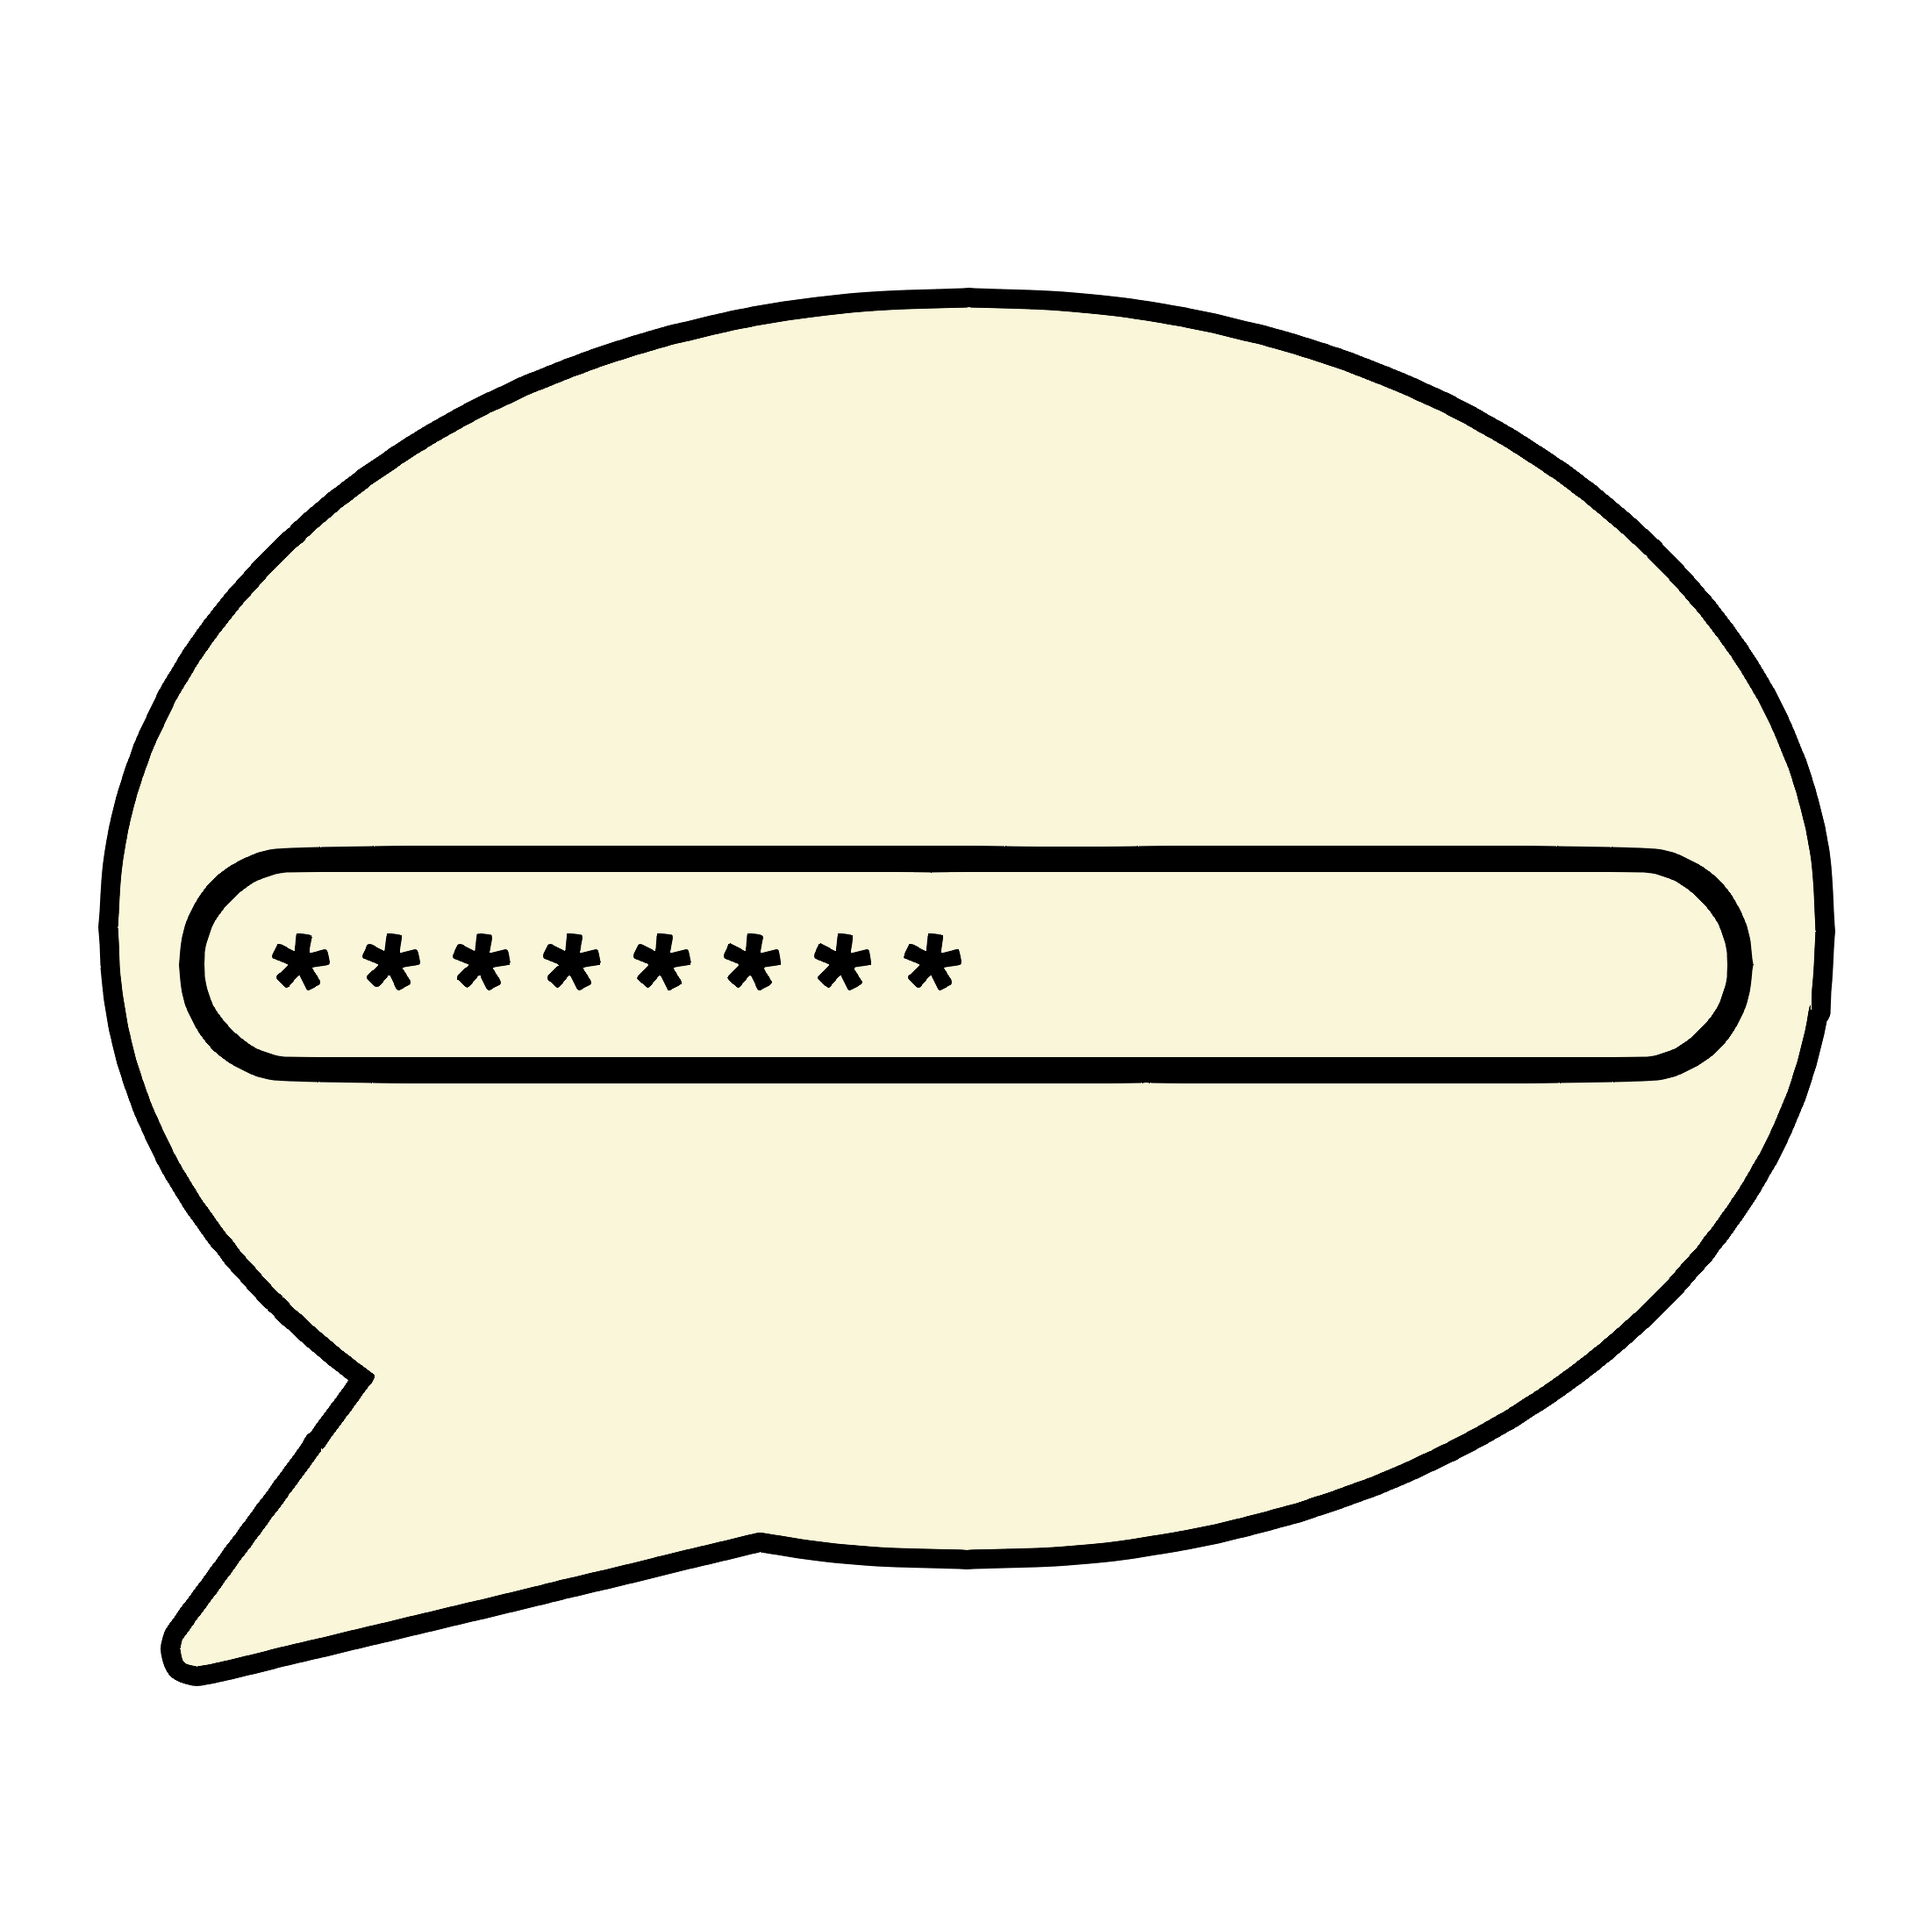
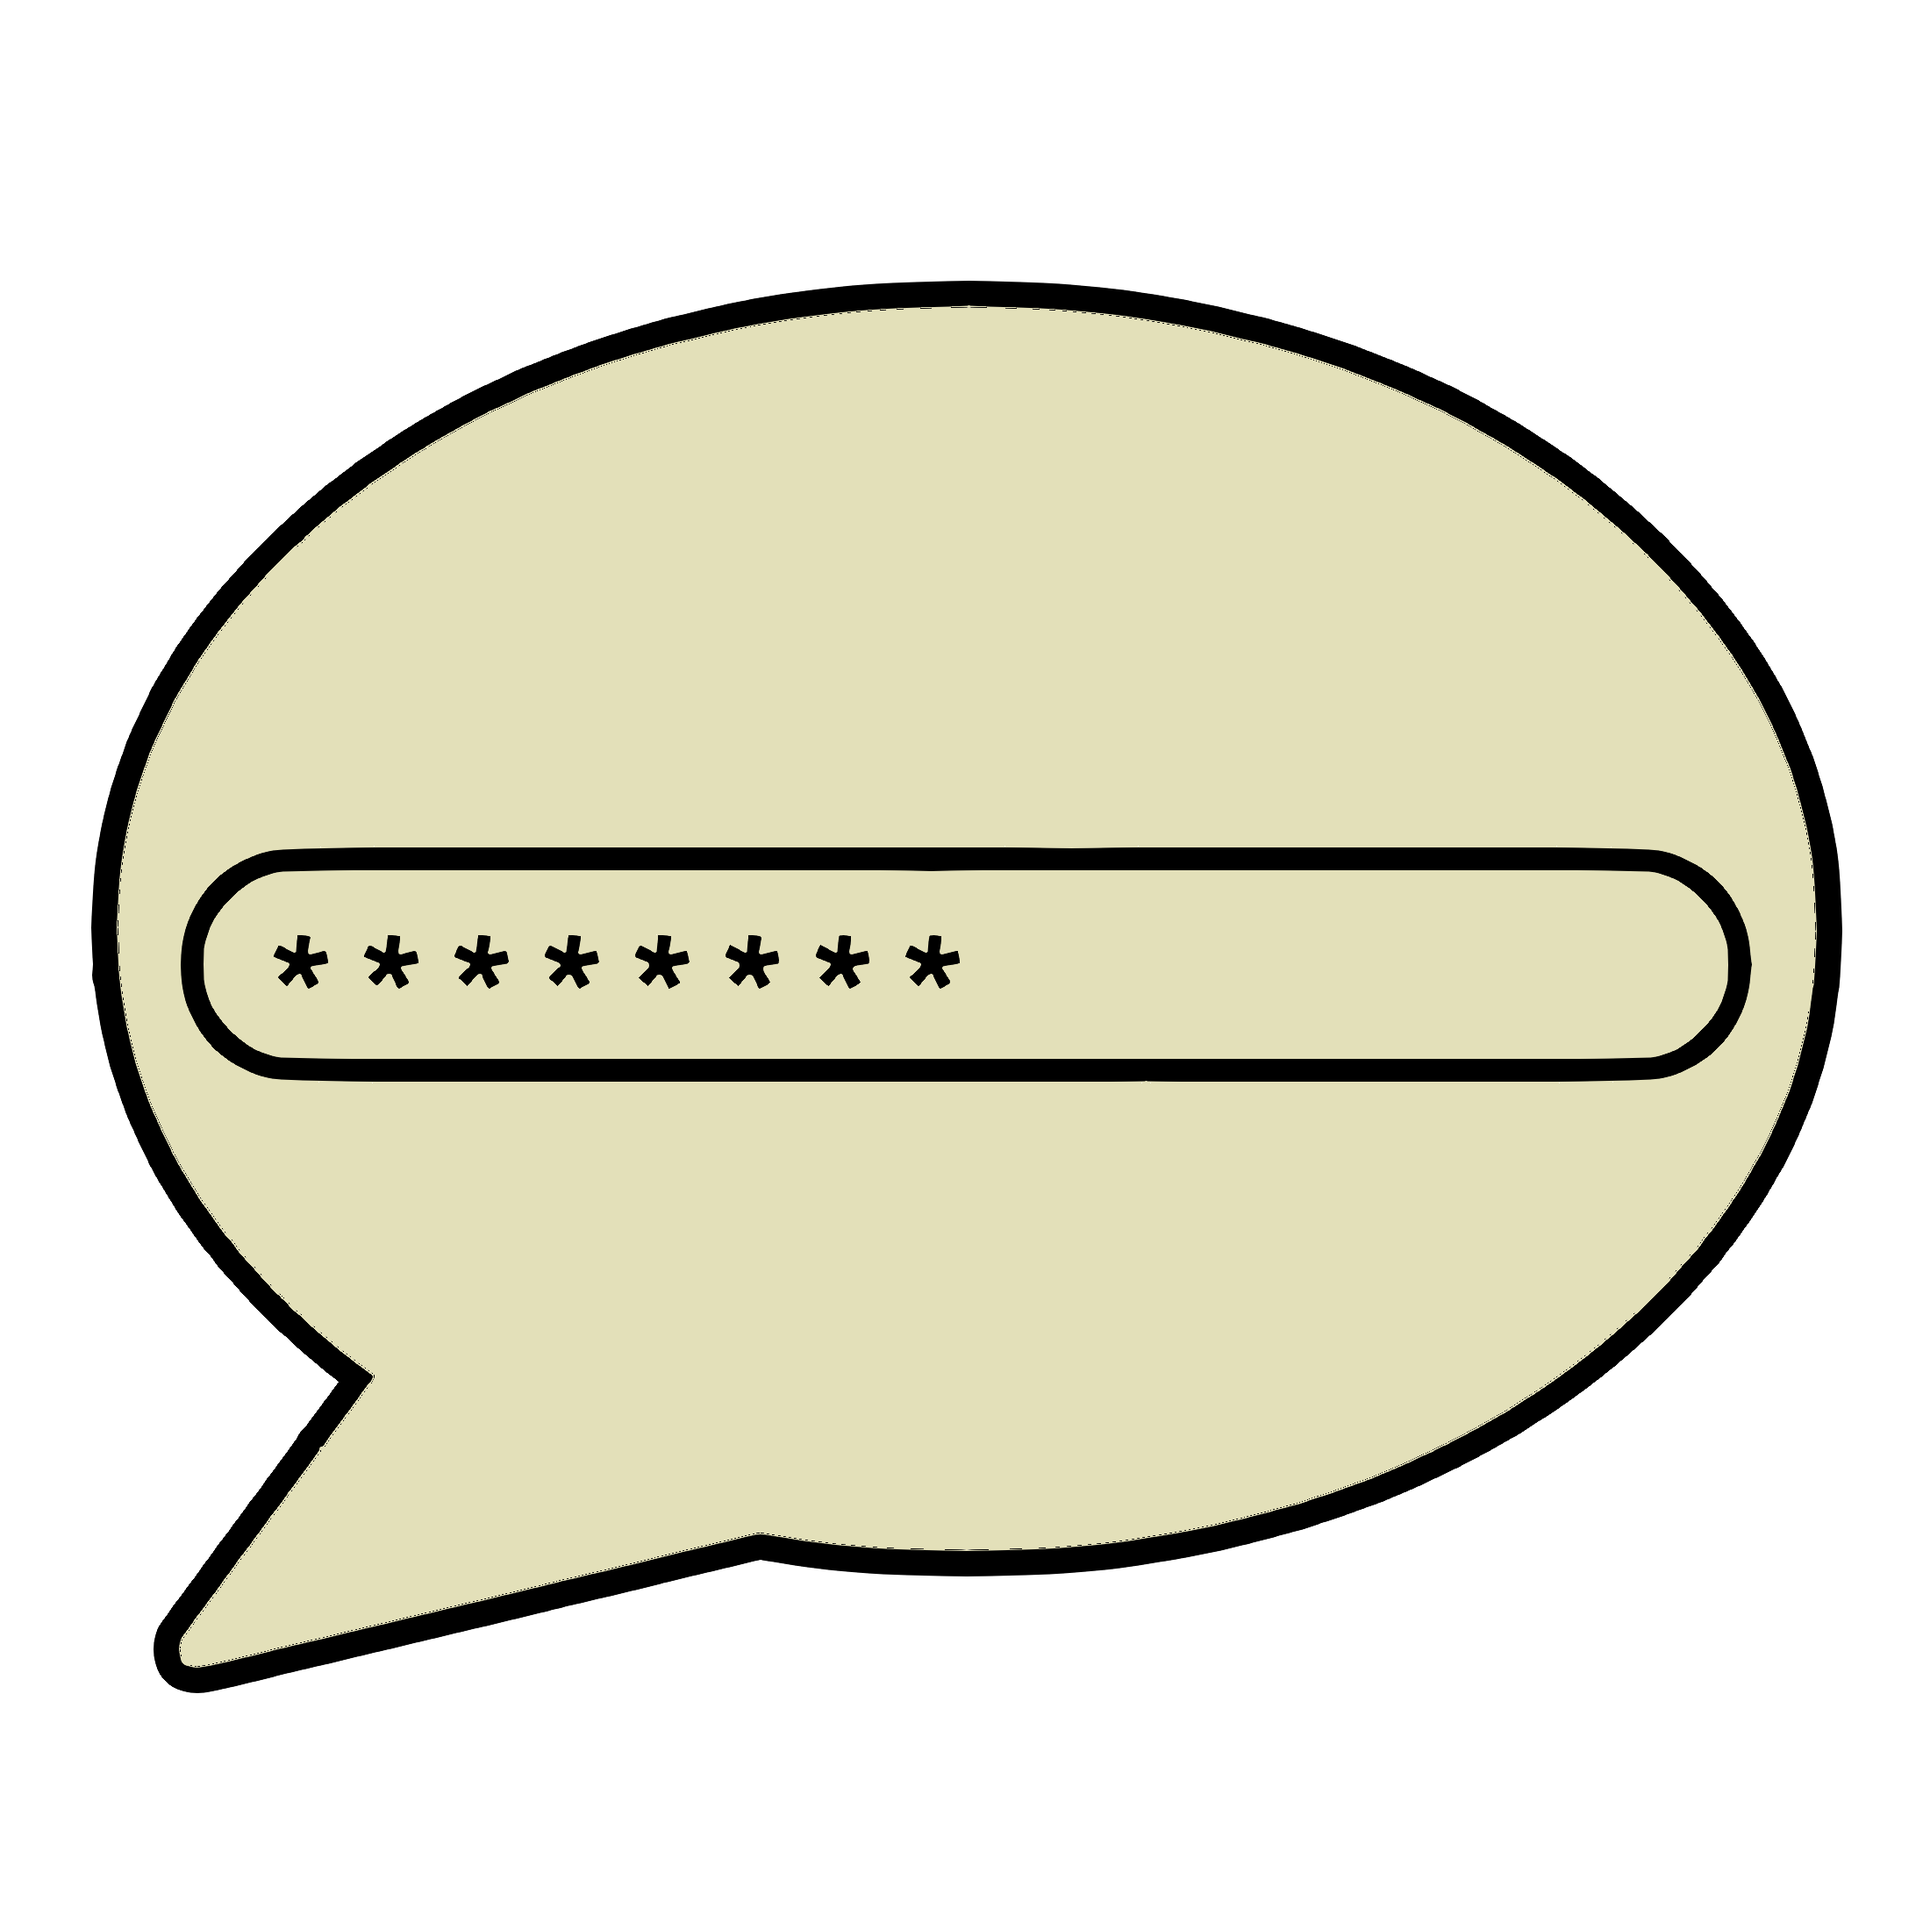
f2

diff --git a/docs/index.html b/docs/index.html
@@ -19,7 +19,7 @@ body {
   font-family: 'futura';
 }
 a {
-  color: #FBF7DA;
+  color: #E3E0B9;
   text-decoration: none;
   transition-duration: .5s;
 }
@@ -217,8 +217,8 @@ audio {
   background-repeat: no-repeat;
   background-position: center center;
   background-size: contain;
-  border: double 5px #ffffff;
-  background-color: #FBF7DA;
+  border: double 5px #000000;
+  background-color: #E3E0B9;
 }
 /* PasswordUnlockBar */
 .PasswordUnlockBar {
@@ -582,7 +582,7 @@ audio {
   width: 0;
 }
 input::placeholder {
-  color: rgba(255, 255, 255, .5);
+  color: rgba(0, 0, 0, .5);
 }
 input:focus {
   animation: none;
@@ -1183,7 +1183,7 @@ li {
             <tr>
               <td>
                 <a href="https://fostmp3s.com/info" target="_blank">
-                  <div style="text-decoration: underline; color: #c2bfa7;" alt="Foster Lancaster" title="Foster Lancaster">
+                  <div style="text-decoration: underline; color: #ffffff;" alt="Foster Lancaster" title="Foster Lancaster">
                     Foster Lancaster
                   </div>
                 </a>
